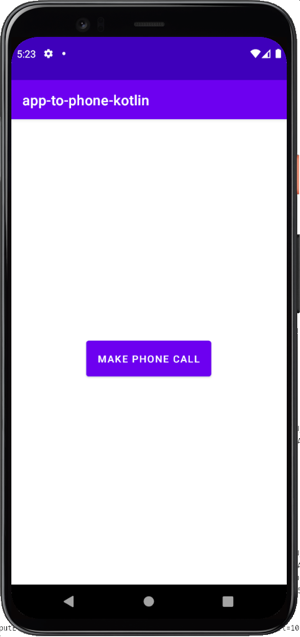
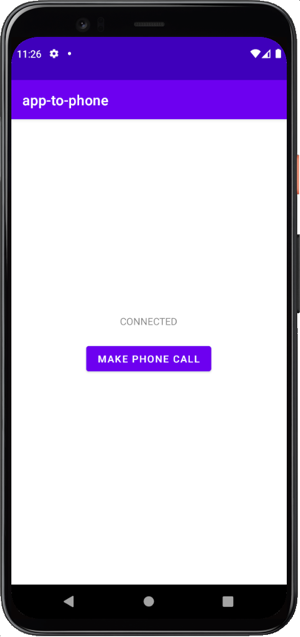
Polish steps

diff --git a/_tutorials/en/client-sdk/app-to-phone/main-screen/java.md b/_tutorials/en/client-sdk/app-to-phone/main-screen/java.md
@@ -32,32 +32,27 @@ Replace the file contents with the following:
             android:id="@+id/connectionStatusTextView"
             android:layout_width="wrap_content"
             android:layout_height="wrap_content"
-            android:textColor="@color/colorPrimary"
             android:layout_marginBottom="20dp"
-            tools:text="Connection status" />
+            tools:text="Connection status"/>
 
     <Button
             android:id="@+id/makeCallButton"
             android:layout_width="wrap_content"
             android:layout_height="wrap_content"
-            android:drawablePadding="8dp"
             android:layout_marginBottom="20dp"
-            android:padding="16dp"
-            android:text="Make phone call" />
+            android:text="Make phone call"
+            android:visibility="gone"
+            tools:visibility="visible"/>
 
     <Button
             android:id="@+id/endCallButton"
             android:layout_width="wrap_content"
             android:layout_height="wrap_content"
             android:text="End call"
-            app:layout_constraintBottom_toBottomOf="parent"
-            app:layout_constraintLeft_toLeftOf="parent"
-            app:layout_constraintRight_toRightOf="parent"
-            app:layout_constraintTop_toTopOf="parent"
-            app:layout_constraintVertical_bias="0.2"
             android:visibility="gone"
             tools:visibility="visible"/>
 </LinearLayout>
+
 ```
 
 You will control the view using code, so you have to store references to the views. Add these properties at the top of the `ManActivity` class:
@@ -101,6 +96,6 @@ Run the project again (`Ctrl + R`).
 
 Notice that buttons are hidden by default:
 
-![Main screen](/screenshots/tutorials/client-sdk/app-to-phone/main-screen.png)
+![Main screen](/screenshots/tutorials/client-sdk/app-to-phone/main-scóreen.png)
 
 The state of the connection will be displayed and the `make a call` button will be shown after logging in the user.

diff --git a/_tutorials/en/client-sdk/app-to-phone/main-screen/kotlin.md b/_tutorials/en/client-sdk/app-to-phone/main-screen/kotlin.md
@@ -32,32 +32,27 @@ Replace the file contents with the following:
             android:id="@+id/connectionStatusTextView"
             android:layout_width="wrap_content"
             android:layout_height="wrap_content"
-            android:textColor="@color/colorPrimary"
             android:layout_marginBottom="20dp"
-            tools:text="Connection status" />
+            tools:text="Connection status"/>
 
     <Button
             android:id="@+id/makeCallButton"
             android:layout_width="wrap_content"
             android:layout_height="wrap_content"
-            android:drawablePadding="8dp"
             android:layout_marginBottom="20dp"
-            android:padding="16dp"
-            android:text="Make phone call" />
+            android:text="Make phone call"
+            android:visibility="gone"
+            tools:visibility="visible"/>
 
     <Button
             android:id="@+id/endCallButton"
             android:layout_width="wrap_content"
             android:layout_height="wrap_content"
             android:text="End call"
-            app:layout_constraintBottom_toBottomOf="parent"
-            app:layout_constraintLeft_toLeftOf="parent"
-            app:layout_constraintRight_toRightOf="parent"
-            app:layout_constraintTop_toTopOf="parent"
-            app:layout_constraintVertical_bias="0.2"
             android:visibility="gone"
             tools:visibility="visible"/>
 </LinearLayout>
+
 ```
 
 You will control the view using code, so you have to store references to the views. Add these properties at the top of the `ManActivity` class:
@@ -89,7 +84,7 @@ To make code compile add these two empty methods in the `MainActivity` class:
 
 ```kotlin
 @SuppressLint("MissingPermission")
-private void makeCall() {
+private fun makeCall() {
         // TODO: update body
 }
 

diff --git a/_tutorials/en/client-sdk/app-to-phone/end-call/kotlin.md b/_tutorials/en/client-sdk/app-to-phone/end-call/kotlin.md
@@ -25,8 +25,10 @@ fun makeCall() {
     // Callee number is ignored because it is specified in NCCO config
     client.call("IGNORED_NUMBER", NexmoCallHandler.SERVER, object : NexmoRequestListener<NexmoCall> {
         override fun onSuccess(call: NexmoCall?) {
-            endCallButton.visibility = View.VISIBLE
-            makeCallButton.visibility = View.INVISIBLE
+            runOnUiThread { 
+                endCallButton.visibility = View.VISIBLE
+                makeCallButton.visibility = View.INVISIBLE
+            }
 
             onGoingCall = call
 
@@ -34,8 +36,11 @@ fun makeCall() {
                 override fun onMemberStatusUpdated(callStatus: NexmoCallMemberStatus, callMember: NexmoCallMember) {
                     if (callStatus == NexmoCallMemberStatus.COMPLETED || callStatus == NexmoCallMemberStatus.CANCELLED) {
                         onGoingCall = null
-                        endCallButton.visibility = View.INVISIBLE
-                        makeCallButton.visibility = View.VISIBLE
+                        
+                        runOnUiThread { 
+                            endCallButton.visibility = View.INVISIBLE
+                            makeCallButton.visibility = View.VISIBLE
+                        }
                     }
                 }
 
@@ -76,4 +81,4 @@ Notice that after successful hangup you set the value of the `onGoingCall` prope
 
 ## Build and Run
 
-`Ctrl + R` to build and run the app. Start and end the call. UI in the app will be updated after starting and ending the call.
+`Ctrl + R` to build and run the app. Start and end the call to see the UI changes.

diff --git a/_tutorials/en/client-sdk/app-to-phone/end-call/java.md b/_tutorials/en/client-sdk/app-to-phone/end-call/java.md
@@ -31,8 +31,10 @@ private void makeCall() {
 
         @Override
         public void onSuccess(@Nullable NexmoCall call) {
-            endCallButton.setVisibility(View.VISIBLE);
-            makeCallButton.setVisibility(View.INVISIBLE);
+            runOnUiThread(() -> {
+                endCallButton.setVisibility(View.VISIBLE);
+                makeCallButton.setVisibility(View.INVISIBLE);
+            }
 
             onGoingCall = call;
             onGoingCall.addCallEventListener(new NexmoCallEventListener() {
@@ -40,8 +42,11 @@ private void makeCall() {
                 public void onMemberStatusUpdated(NexmoCallMemberStatus callStatus, NexmoCallMember nexmoCallMember) {
                     if (callStatus == NexmoCallMemberStatus.COMPLETED || callStatus == NexmoCallMemberStatus.CANCELLED) {
                         onGoingCall = null;
-                        endCallButton.setVisibility(View.INVISIBLE);
-                        makeCallButton.setVisibility(View.VISIBLE);
+                        
+                        runOnUiThread(() -> {
+                            endCallButton.setVisibility(View.INVISIBLE);
+                            makeCallButton.setVisibility(View.VISIBLE);
+                        }
                     }
                 }
 
@@ -91,4 +96,4 @@ Notice that after successful hangup you set the value of the `onGoingCall` prope
 
 ## Build and Run
 
-`Ctrl + R` to build and run the app. Start and end the call. UI in the app will be updated after starting and ending the call.
+`Ctrl + R` to build and run the app. Start and end the call to see the UI changes.

diff --git a/_tutorials/en/client-sdk/app-to-phone/place-call/kotlin.md b/_tutorials/en/client-sdk/app-to-phone/place-call/kotlin.md
@@ -13,8 +13,10 @@ fun makeCall() {
   // Callee number is ignored because it is specified in NCCO config
   client.call("IGNORED_NUMBER", NexmoCallHandler.SERVER, object : NexmoRequestListener<NexmoCall> {
       override fun onSuccess(call: NexmoCall?) {
-          endCallButton.visibility = View.VISIBLE
-          makeCallButton.visibility = View.INVISIBLE
+          runOnUiThread { 
+            endCallButton.visibility = View.VISIBLE
+            makeCallButton.visibility = View.INVISIBLE
+          }
       }
 
       override fun onError(apiError: NexmoApiError) {
@@ -115,3 +117,7 @@ VOICE EVENT:
 ```
 
 > **NOTE:** As the call is completed, events will also contain duration and pricing information.
+
+The `end call` button was shown to reflect the current state of the call:
+
+![End call](/screenshots/tutorials/client-sdk/app-to-phone/end-call.png)

diff --git a/_tutorials/en/client-sdk/app-to-phone/place-call/java.md b/_tutorials/en/client-sdk/app-to-phone/place-call/java.md
@@ -19,8 +19,10 @@ To start the call after pressing `make call` button fill the body of the `makeCa
 
           @Override
           public void onSuccess(@Nullable NexmoCall call) {
+            runOnUiThread(() -> {
               endCallButton.setVisibility(View.VISIBLE);
               makeCallButton.setVisibility(View.INVISIBLE);
+            });
           }
       });
   }
@@ -118,3 +120,7 @@ VOICE EVENT:
 ```
 
 > **NOTE:** As the call is completed, events will also contain duration and pricing information.
+
+The `end call` button was shown to reflect the current state of the call:
+
+![End call](/screenshots/tutorials/client-sdk/app-to-phone/end-call.png)

diff --git a/_tutorials/en/client-sdk/app-to-phone/create-project/kotlin.md b/_tutorials/en/client-sdk/app-to-phone/create-project/kotlin.md
@@ -16,7 +16,7 @@ Open Android Studio and, from the menu, select `File` > `New` > `New Project...`
 
 ![Create project](/screenshots/tutorials/client-sdk/android-shared/create-project-empty-activity.png)
 
-Enter `app-to-phone-kotlin` as project name, point location to previously created `app-to-phone-kotlin/app-to-phone` folder, select as `Kotlin` language and press `Finish` button.
+Enter `app-to-phone` as project name, point location to previously created `app-to-phone-kotlin/app-to-phone` folder, select as `Kotlin` language and press `Finish` button.
 
 You now have a brand new Android Project.
 

diff --git a/_tutorials/en/client-sdk/app-to-phone/create-project/java.md b/_tutorials/en/client-sdk/app-to-phone/create-project/java.md
@@ -16,7 +16,7 @@ Open Android Studio and, from the menu, select `File` > `New` > `New Project...`
 
 ![Create project](/screenshots/tutorials/client-sdk/android-shared/create-project-empty-activity.png)
 
-Enter `app-to-phone-java` as project name, point location to previously created `app-to-phone-java/app-to-phone` folder,  select as `Java` language and press `Finish` button.
+Enter `app-to-phone` as project name, point location to previously created `app-to-phone-java/app-to-phone` folder,  select as `Java` language and press `Finish` button.
 
 You now have a brand new Android Project.
 

diff --git a/_tutorials/en/client-sdk/app-to-phone/client/kotlin.md b/_tutorials/en/client-sdk/app-to-phone/client/kotlin.md
@@ -31,7 +31,7 @@ client.setConnectionListener { connectionStatus, _ ->
     runOnUiThread { connectionStatusTextView.text = connectionStatus.toString() }
 
     if (connectionStatus == ConnectionStatus.CONNECTED) {
-        makeCallButton.visibility = View.VISIBLE;
+        runOnUiThread { makeCallButton.visibility = View.VISIBLE }
 
         return@setConnectionListener
     }

diff --git a/_tutorials/en/client-sdk/app-to-phone/client/java.md b/_tutorials/en/client-sdk/app-to-phone/client/java.md
@@ -33,7 +33,10 @@ client.setConnectionListener((connectionStatus, connectionStatusReason) -> {
     });
 
     if (connectionStatus == ConnectionStatus.CONNECTED) {
-        makeCallButton.setVisibility(View.VISIBLE);
+        runOnUiThread(() -> {
+            makeCallButton.setVisibility(View.VISIBLE);
+        });
+        
         return;
     }
 });
